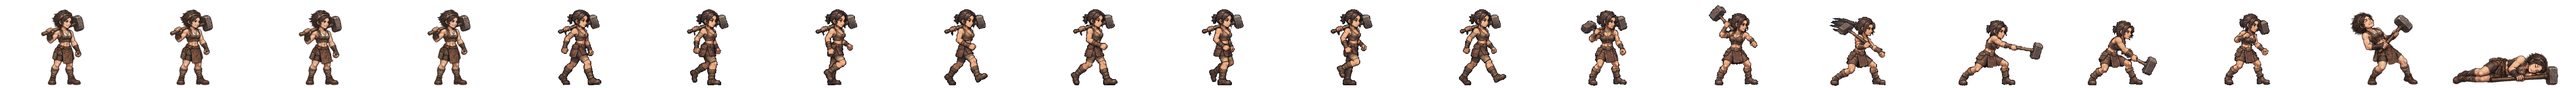
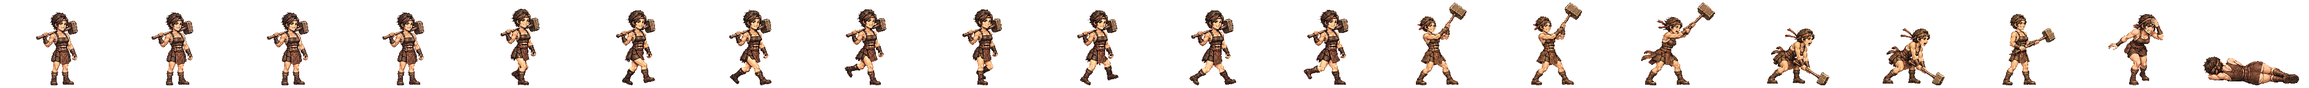
해비·아룸 새 전투 띠를 게임에 (형 11-24: 완료된 건 게임에 반영해 줘)
서기·걷기 여덟 칸·공격 여덟 칸(넓은 동작 칸 240×224 · 뿌리 92)·쓰러짐·개성 동작. 넓은 칸(xGeom)을 처음 실제로 쓴다.
- SPRITE_PX 다시 잼(해비 208×160 · 아룸 208×160) · 계획(HAEBI_IDLE.plans) · 옛 2배 그림 연결 끊음 · 겨루기도 새 띠
- 게임의 sprite() 로 칸마다 찍어 확인: 머리 위로 든 무기 안 잘림 · 발 줄 같음 · 몸 크기 같음 · 뒤집어도 같은 자리
- 아룸: 걷기·서기 얼굴과 먼 다리 살빛은 부분 보정을 원본에 얹음

Claude-Session: https://claude.ai/code/session_01TRiuN7s6aDfSnaHxrkctmU

diff --git a/src/realm/data/spritePx.ts b/src/realm/data/spritePx.ts
@@ -1,3 +1,3 @@
 /** public/realm/anim-px/manifest.json 의 사본 — tools/sprite-normalize.mjs 가 만든다 (손으로 고치지 말 것). 칸 [가로, 세로] · feet = 발 줄(칸 위에서 y) · bodyPx = 서 있는 몸 키 */
 import { expandManifest } from './sprite-manifest.ts'
-export const SPRITE_PX: Readonly<Record<string, { readonly cell: readonly [number, number]; readonly feet: number; readonly bodyPx: number; readonly kind: 'general' | 'soldier' | 'folk' | 'crowd'; readonly cells: number }>> = expandManifest<{ readonly cell: readonly [number, number]; readonly feet: number; readonly bodyPx: number; readonly kind: 'general' | 'soldier' | 'folk' | 'crowd'; readonly cells: number }>([{"cell":[166,128],"feet":126,"bodyPx":124,"kind":"soldier","cells":20},{"cell":[116,128],"feet":126,"bodyPx":117,"kind":"soldier","cells":20},{"cell":[127,128],"feet":126,"bodyPx":116,"kind":"soldier","cells":20},{"cell":[269,128],"feet":126,"bodyPx":126,"kind":"soldier","cells":20},{"cell":[503,128],"feet":126,"bodyPx":127,"kind":"soldier","cells":20},{"cell":[614,128],"feet":126,"bodyPx":126,"kind":"soldier","cells":20},{"cell":[200,160],"feet":156,"bodyPx":138,"kind":"general","cells":20},{"cell":[208,160],"feet":155,"bodyPx":138,"kind":"general","cells":20},{"cell":[232,160],"feet":156,"bodyPx":138,"kind":"general","cells":20},{"cell":[232,160],"feet":155,"bodyPx":138,"kind":"general","cells":20},{"cell":[304,160],"feet":155,"bodyPx":135,"kind":"general","cells":20},{"cell":[224,160],"feet":156,"bodyPx":139,"kind":"general","cells":20},{"cell":[184,160],"feet":156,"bodyPx":138,"kind":"general","cells":20},{"cell":[208,160],"feet":154,"bodyPx":136,"kind":"general","cells":20},{"cell":[240,160],"feet":156,"bodyPx":138,"kind":"general","cells":20},{"cell":[208,160],"feet":156,"bodyPx":138,"kind":"general","cells":20},{"cell":[168,160],"feet":156,"bodyPx":138,"kind":"general","cells":20},{"cell":[192,160],"feet":156,"bodyPx":138,"kind":"general","cells":20},{"cell":[168,160],"feet":156,"bodyPx":124,"kind":"general","cells":20},{"cell":[216,160],"feet":156,"bodyPx":130,"kind":"general","cells":20},{"cell":[200,160],"feet":156,"bodyPx":116,"kind":"general","cells":20},{"cell":[200,160],"feet":156,"bodyPx":135,"kind":"general","cells":20},{"cell":[280,160],"feet":156,"bodyPx":138,"kind":"general","cells":20},{"cell":[232,160],"feet":156,"bodyPx":134,"kind":"general","cells":20},{"cell":[144,160],"feet":156,"bodyPx":70,"kind":"general","cells":20},{"cell":[208,160],"feet":156,"bodyPx":70,"kind":"general","cells":20},{"cell":[192,160],"feet":156,"bodyPx":70,"kind":"general","cells":20},{"cell":[240,160],"feet":155,"bodyPx":138,"kind":"general","cells":20},{"cell":[160,160],"feet":156,"bodyPx":135,"kind":"general","cells":20},{"cell":[192,160],"feet":156,"bodyPx":128,"kind":"general","cells":20},{"cell":[224,160],"feet":155,"bodyPx":138,"kind":"general","cells":20},{"cell":[200,160],"feet":156,"bodyPx":139,"kind":"general","cells":20},{"cell":[232,160],"feet":156,"bodyPx":139,"kind":"general","cells":20},{"cell":[264,160],"feet":155,"bodyPx":138,"kind":"general","cells":20},{"cell":[216,160],"feet":156,"bodyPx":138,"kind":"general","cells":20},{"cell":[208,160],"feet":156,"bodyPx":134,"kind":"general","cells":20},{"cell":[176,160],"feet":156,"bodyPx":130,"kind":"general","cells":20},{"cell":[248,160],"feet":156,"bodyPx":138,"kind":"general","cells":20},{"cell":[248,160],"feet":155,"bodyPx":138,"kind":"general","cells":20},{"cell":[192,160],"feet":155,"bodyPx":138,"kind":"general","cells":20},{"cell":[192,160],"feet":156,"bodyPx":124,"kind":"general","cells":20},{"cell":[208,160],"feet":154,"bodyPx":131,"kind":"general","cells":20},{"cell":[256,160],"feet":156,"bodyPx":138,"kind":"general","cells":20},{"cell":[232,160],"feet":156,"bodyPx":73,"kind":"general","cells":20},{"cell":[256,160],"feet":155,"bodyPx":138,"kind":"general","cells":20},{"cell":[224,160],"feet":156,"bodyPx":138,"kind":"general","cells":20},{"cell":[264,160],"feet":156,"bodyPx":138,"kind":"general","cells":20},{"cell":[224,160],"feet":156,"bodyPx":128,"kind":"general","cells":20},{"cell":[176,160],"feet":156,"bodyPx":129,"kind":"general","cells":20},{"cell":[208,160],"feet":156,"bodyPx":132,"kind":"general","cells":20},{"cell":[216,160],"feet":155,"bodyPx":138,"kind":"general","cells":20},{"cell":[184,160],"feet":156,"bodyPx":122,"kind":"general","cells":20},{"cell":[176,160],"feet":156,"bodyPx":138,"kind":"general","cells":20},{"cell":[280,160],"feet":155,"bodyPx":133,"kind":"general","cells":20},{"cell":[176,160],"feet":156,"bodyPx":70,"kind":"general","cells":20},{"cell":[186,128],"feet":126,"bodyPx":127,"kind":"soldier","cells":20},{"cell":[298,128],"feet":126,"bodyPx":126,"kind":"soldier","cells":20},{"cell":[82,128],"feet":126,"bodyPx":114,"kind":"folk","cells":8},{"cell":[134,128],"feet":126,"bodyPx":119,"kind":"soldier","cells":20},{"cell":[380,128],"feet":126,"bodyPx":124,"kind":"soldier","cells":20},{"cell":[114,128],"feet":126,"bodyPx":115,"kind":"soldier","cells":20},{"cell":[122,128],"feet":126,"bodyPx":114,"kind":"soldier","cells":20},{"cell":[254,128],"feet":126,"bodyPx":128,"kind":"soldier","cells":20},{"cell":[438,128],"feet":126,"bodyPx":126,"kind":"soldier","cells":20},{"cell":[88,128],"feet":126,"bodyPx":113,"kind":"folk","cells":8},{"cell":[100,128],"feet":126,"bodyPx":115,"kind":"folk","cells":8},{"cell":[108,128],"feet":126,"bodyPx":115,"kind":"folk","cells":8},{"cell":[63,128],"feet":126,"bodyPx":113,"kind":"folk","cells":8},{"cell":[69,96],"feet":96,"bodyPx":96,"kind":"crowd","cells":1},{"cell":[54,96],"feet":96,"bodyPx":96,"kind":"crowd","cells":1},{"cell":[47,96],"feet":96,"bodyPx":96,"kind":"crowd","cells":1},{"cell":[49,96],"feet":96,"bodyPx":96,"kind":"crowd","cells":1},{"cell":[57,96],"feet":96,"bodyPx":96,"kind":"crowd","cells":1},{"cell":[55,96],"feet":96,"bodyPx":96,"kind":"crowd","cells":1},{"cell":[45,96],"feet":96,"bodyPx":96,"kind":"crowd","cells":1},{"cell":[53,96],"feet":96,"bodyPx":96,"kind":"crowd","cells":1},{"cell":[64,96],"feet":96,"bodyPx":96,"kind":"crowd","cells":1},{"cell":[184,160],"feet":156,"bodyPx":124,"kind":"general","cells":20},{"cell":[184,160],"feet":156,"bodyPx":134,"kind":"general","cells":20},{"cell":[224,160],"feet":156,"bodyPx":133,"kind":"general","cells":20},{"cell":[192,160],"feet":156,"bodyPx":135,"kind":"general","cells":20},{"cell":[184,160],"feet":156,"bodyPx":137,"kind":"general","cells":20},{"cell":[216,160],"feet":156,"bodyPx":134,"kind":"general","cells":20},{"cell":[216,160],"feet":156,"bodyPx":132,"kind":"general","cells":20},{"cell":[288,160],"feet":156,"bodyPx":138,"kind":"general","cells":20},{"cell":[208,160],"feet":154,"bodyPx":139,"kind":"general","cells":20},{"cell":[192,160],"feet":156,"bodyPx":118,"kind":"general","cells":20},{"cell":[192,160],"feet":156,"bodyPx":134,"kind":"general","cells":20},{"cell":[192,160],"feet":157,"bodyPx":139,"kind":"general","cells":20},{"cell":[184,160],"feet":156,"bodyPx":128,"kind":"general","cells":20},{"cell":[240,160],"feet":156,"bodyPx":128,"kind":"general","cells":20},{"cell":[184,160],"feet":156,"bodyPx":132,"kind":"general","cells":20},{"cell":[208,160],"feet":156,"bodyPx":123,"kind":"general","cells":20},{"cell":[176,160],"feet":156,"bodyPx":116,"kind":"general","cells":20},{"cell":[272,160],"feet":156,"bodyPx":138,"kind":"general","cells":20},{"cell":[176,160],"feet":156,"bodyPx":122,"kind":"general","cells":20},{"cell":[232,160],"feet":156,"bodyPx":127,"kind":"general","cells":20},{"cell":[176,160],"feet":156,"bodyPx":137,"kind":"general","cells":20},{"cell":[184,160],"feet":156,"bodyPx":133,"kind":"general","cells":20}],[["axe",0],["bandit-chief",1],["bandit-club",2],["boat",3],["bow",4],["crossbow",5],["gen-adogan",6],["gen-alpyeong",7],["gen-ara",8],["gen-areum",9],["gen-aryeong",10],["gen-bakdal",6],["gen-baram",11],["gen-bdanbi",12],["gen-beom",13],["gen-beombal",12],["gen-beomi",14],["gen-bira",8],["gen-biryu",15],["gen-budeul",16],["gen-byeol",17],["gen-daemusin",18],["gen-daeso",19],["gen-dallae2",12],["gen-dalli",12],["gen-damul",20],["gen-danbi",15],["gen-dangung",17],["gen-darae",21],["gen-dokmudeom",7],["gen-duman",22],["gen-eomni",9],["gen-eureum",23],["gen-g-bow",24],["gen-g-spear",25],["gen-g-sword",26],["gen-gaennae",6],["gen-gamsil",27],["gen-gaon",28],["gen-geota",15],["gen-geumbawi",12],["gen-geumha",29],["gen-goeun",15],["gen-gom",30],["gen-gomok",15],["gen-gureum",27],["gen-guryema",17],["gen-gwaeyu",8],["gen-haebi",31],["gen-haedal",6],["gen-haesol",32],["gen-halla",7],["gen-heo",33],["gen-hneoul",12],["gen-hogong",34],["gen-hojin",15],["gen-horselord",35],["gen-hwalmi",36],["gen-hyeokgeose",17],["gen-hyeopbo",6],["gen-irang",15],["gen-jibaekho",37],["gen-jinha",38],["gen-jita",39],["gen-jumong",40],["gen-keundol",7],["gen-maehwa",41],["gen-maenun",17],["gen-malgalgi",42],["gen-mari",14],["gen-maro",37],["gen-maryeo",15],["gen-mdallae",32],["gen-mir",6],["gen-mount",43],["gen-mulbeom",44],["gen-mulsae",34],["gen-musoe",34],["gen-noeul",45],["gen-nuri",46],["gen-ocheongan",45],["gen-odi",38],["gen-odogan",6],["gen-ogan",17],["gen-oi",47],["gen-olddaeso",23],["gen-onjo",48],["gen-pidogan",15],["gen-sagong",30],["gen-sdallae",6],["gen-sincheongan",34],["gen-singwigan",34],["gen-sinneoul",9],["gen-sobeol",9],["gen-soebi",6],["gen-soebo",49],["gen-soenun",37],["gen-sogeumbi",50],["gen-songbi",45],["gen-songyang",51],["gen-sori",52],["gen-soseono",53],["gen-suro",17],["gen-tahae",6],["gen-tneoul",45],["gen-w-bow",24],["gen-w-spear",54],["gen-waechief",15],["gen-wan",34],["gen-yeodogan",15],["gen-yucheongan",15],["gen-yusugan",37],["horse",55],["marine",56],["migrant",57],["militia",58],["pike",59],["pirate-captain",60],["pirate-sword",61],["shield",62],["spear",63],["villager-builder",64],["villager-farmer",65],["villager-porter",66],["villager-woman",67],["crowd-b1",68],["crowd-b2",69],["crowd-b3",70],["crowd-b4",71],["crowd-b5",72],["crowd-b6",73],["crowd-f1",68],["crowd-f2",73],["crowd-f3",74],["crowd-f4",75],["crowd-f5",68],["crowd-f6",76],["gen-dalbit",15],["gen-base-g-07-drunk-warrior",17],["gen-base-g-40-anya-adan",15],["gen-base-w-13-young-archer",15],["gen-base-g-03-sea-trader",14],["gen-base-w-10-pirate-captain",46],["gen-base-w-64-miri-dallae",14],["gen-base-g-41-goja-bau",14],["gen-base-g-42-dokro-garam",46],["gen-base-g-09-farmer-conscript",34],["gen-base-w-02-goguryeo-lady",34],["gen-base-w-17-mahan-pearl-diver",45],["gen-base-g-17-saro-isageum",49],["gen-base-g-18-daegaya-king",77],["gen-base-g-35-dabeol-dalgu",15],["gen-base-g-19-sabeol-veteran",34],["gen-base-w-23-usisan-whale-queen",34],["gen-base-g-36-gammun-gamdol",45],["gen-base-g-20-samul-sea-lord",42],["gen-base-g-37-eumjeup-jeup",12],["gen-base-g-38-chopal-palmae",17],["gen-base-w-75-daegaya-soemoe",17],["gen-base-g-45-dabeol-deulgae",12],["gen-base-g-04-jinhan-giant",15],["gen-base-g-08-veteran",15],["gen-base-w-18-jinhan-salt-widow",15],["gen-base-w-12-court-dancer",78],["gen-base-w-83-gyeonji-beodeul",79],["gen-base-w-05-baekje-queen",80],["gen-base-w-21-baekje-court-dancer",12],["gen-base-g-01-master-smith",81],["gen-base-g-93-jomun-solgae",36],["gen-base-g-57-bihwa-neup",14],["gen-base-w-72-eumjeup-beol",15],["gen-base-w-102-garak-dana",34],["gen-base-g-68-baekje-onnuri",15],["gen-base-w-27-mokji-jinha",6],["gen-base-g-22-ungcheon-gomnae",6],["gen-base-g-23-sangdang-soedal",15],["gen-base-g-24-wansan-onsan",6],["gen-base-g-25-balla-keunmoe",34],["gen-base-g-61-heomcheuk-bawi",34],["gen-base-g-88-wander-soeul",45],["gen-base-w-14-feast-spy",6],["gen-base-g-12-silla-youth",82],["gen-base-w-08-mahan-warrior",14],["gen-base-g-62-beonye-hanul",14],["gen-base-g-63-heomcheuk-beogeum",15],["gen-base-g-84-wander-seoneul",15],["gen-base-w-50-siljik-mulga",34],["gen-base-g-46-uga-nureongso",34],["gen-base-w-80-usan-gangchi",14],["gen-base-g-47-guga-sanyanggae",34],["gen-base-w-76-gampyeong-baetsagong",37],["gen-base-g-05-mahan-chieftain",83],["gen-base-g-58-usan-uhae",15],["gen-base-g-27-maek-maekdol",15],["gen-base-w-53-hwanna-gabi",16],["gen-base-w-29-golpo-janmul",37],["gen-base-g-53-baekje-haeru",6],["gen-base-w-71-yeonna-neoul",14],["gen-base-w-79-yangmaek-solmae",34],["gen-base-w-34-chopal-deulme",46],["gen-base-g-44-maga-malgup",84],["gen-base-w-31-dabeol-dalbit",85],["gen-base-g-51-biryuna-mulgyeol",45],["gen-base-g-48-gwanna-musoe",15],["gen-base-g-32-uga-sodu",8],["gen-base-g-49-goguryeo-sona",86],["gen-base-g-30-gwanna-soemoe",45],["gen-base-g-52-tamna-oreum",12],["gen-base-g-29-yeonna-myeongsol",40],["gen-base-w-56-dongokjeo-sogeum",87],["gen-base-g-54-mokji-mahan",8],["gen-base-g-33-jeoga-metdol",17],["gen-base-w-36-baekje-maena",17],["gen-base-w-38-sangdang-bulmae",6],["gen-base-w-39-gosaburi-galmae",88],["gen-base-w-40-mujin-munui",49],["gen-base-w-41-hwanna-beodeul",89],["gen-base-w-43-uga-nuri",42],["gen-base-w-45-tamna-oreumbi",12],["gen-base-g-60-golbeol-golgae",12],["gen-base-g-61-apdok-ap",34],["gen-base-g-62-gammun-gamnamu",6],["gen-base-g-63-chopal-yeoul",37],["gen-base-g-64-michuhol-sogeumkkun",14],["gen-base-g-65-sangdang-soemangchi",45],["gen-base-g-66-geonma-malbalgup",90],["gen-base-g-67-gosaburi-buri",91],["gen-base-g-68-mujin-bitgoeul",12],["gen-base-g-69-goryong-yong",45],["gen-base-g-70-siljik-pado",14],["gen-base-w-81-byeokjin-byeolbit",8],["gen-base-w-46-geonma-maru",37],["gen-base-w-48-mujin-mudeung",14],["gen-base-g-26-gampyeong-gaetbeol",8],["gen-base-g-60-eupcha-hangyeol",92],["gen-base-g-15-shaman-man",34],["gen-base-g-85-wander-ure",37],["gen-base-g-43-hwanna-amnok",15],["gen-base-g-50-bullae-gwaha",80],["gen-base-g-55-saro-bakdal",15],["gen-base-g-56-haseulla-gwahama",6],["gen-base-w-06-buyeo-huntress",14],["gen-base-w-22-dongye-tiger-huntress",14],["gen-base-w-25-bihwa-priestess",34],["gen-base-w-24-apdok-queen",12],["gen-base-w-61-iseo-sinae",15],["gen-base-w-26-iseo-tomboy-general",46],["gen-base-g-59-yangmaek-maekson",93],["gen-aw1-haebi",45],["gen-aw1-soseono",94],["gen-aw1-gamsil",12],["gen-aw1-mir",52],["gen-aw1-dangung",6],["gen-aw1-ara",45],["gen-aw1-jumong",95],["gen-aw1-onjo",96],["gen-aw1-base-w-83-gyeonji-beodeul",17],["gen-aw1-heo",46],["gen-aw1-base-g-38-chopal-palmae",6],["gen-aw1-base-w-25-bihwa-priestess",78],["gen-aw1-sori",16],["gen-aw1-gomok",6],["gen-aw1-irang",17],["gen-aw1-budeul",16],["gen-aw1-gom",14],["gen-aw1-sdallae",6],["gen-aw1-base-w-13-young-archer",6],["gen-aw1-base-w-36-baekje-maena",97],["gen-aw1-base-g-09-farmer-conscript",46],["gen-aw1-base-w-02-goguryeo-lady",98],["gen-aw1-haedal",12],["gen-aw1-hogong",6],["gen-aw1-maehwa",52],["gen-aw1-base-w-06-buyeo-huntress",8],["gen-aw1-base-w-08-mahan-warrior",45],["gen-aw1-base-w-29-golpo-janmul",45],["gen-aw1-base-w-31-dabeol-dalbit",17],["gen-aw1-base-w-38-sangdang-bulmae",16],["gen-aw1-bira",34],["gen-aw1-base-w-53-hwanna-gabi",16],["gen-aw1-base-w-56-dongokjeo-sogeum",52],["gen-aw1-base-w-72-eumjeup-beol",17],["gen-aw1-bdanbi",16],["gen-aw1-beom",12],["gen-aw1-beombal",12],["gen-aw1-byeol",17],["gen-aw1-dalli",52],["gen-aw1-malgalgi",37],["gen-aw1-sincheongan",34]])
+export const SPRITE_PX: Readonly<Record<string, { readonly cell: readonly [number, number]; readonly feet: number; readonly bodyPx: number; readonly kind: 'general' | 'soldier' | 'folk' | 'crowd'; readonly cells: number }>> = expandManifest<{ readonly cell: readonly [number, number]; readonly feet: number; readonly bodyPx: number; readonly kind: 'general' | 'soldier' | 'folk' | 'crowd'; readonly cells: number }>([{"cell":[166,128],"feet":126,"bodyPx":124,"kind":"soldier","cells":20},{"cell":[116,128],"feet":126,"bodyPx":117,"kind":"soldier","cells":20},{"cell":[127,128],"feet":126,"bodyPx":116,"kind":"soldier","cells":20},{"cell":[269,128],"feet":126,"bodyPx":126,"kind":"soldier","cells":20},{"cell":[503,128],"feet":126,"bodyPx":127,"kind":"soldier","cells":20},{"cell":[614,128],"feet":126,"bodyPx":126,"kind":"soldier","cells":20},{"cell":[200,160],"feet":156,"bodyPx":138,"kind":"general","cells":20},{"cell":[208,160],"feet":155,"bodyPx":138,"kind":"general","cells":20},{"cell":[232,160],"feet":156,"bodyPx":138,"kind":"general","cells":20},{"cell":[208,160],"feet":154,"bodyPx":133,"kind":"general","cells":20},{"cell":[304,160],"feet":155,"bodyPx":135,"kind":"general","cells":20},{"cell":[224,160],"feet":156,"bodyPx":139,"kind":"general","cells":20},{"cell":[184,160],"feet":156,"bodyPx":138,"kind":"general","cells":20},{"cell":[208,160],"feet":154,"bodyPx":136,"kind":"general","cells":20},{"cell":[240,160],"feet":156,"bodyPx":138,"kind":"general","cells":20},{"cell":[208,160],"feet":156,"bodyPx":138,"kind":"general","cells":20},{"cell":[168,160],"feet":156,"bodyPx":138,"kind":"general","cells":20},{"cell":[192,160],"feet":156,"bodyPx":138,"kind":"general","cells":20},{"cell":[168,160],"feet":156,"bodyPx":124,"kind":"general","cells":20},{"cell":[216,160],"feet":156,"bodyPx":130,"kind":"general","cells":20},{"cell":[200,160],"feet":156,"bodyPx":116,"kind":"general","cells":20},{"cell":[200,160],"feet":156,"bodyPx":135,"kind":"general","cells":20},{"cell":[280,160],"feet":156,"bodyPx":138,"kind":"general","cells":20},{"cell":[232,160],"feet":155,"bodyPx":138,"kind":"general","cells":20},{"cell":[232,160],"feet":156,"bodyPx":134,"kind":"general","cells":20},{"cell":[144,160],"feet":156,"bodyPx":70,"kind":"general","cells":20},{"cell":[208,160],"feet":156,"bodyPx":70,"kind":"general","cells":20},{"cell":[192,160],"feet":156,"bodyPx":70,"kind":"general","cells":20},{"cell":[240,160],"feet":155,"bodyPx":138,"kind":"general","cells":20},{"cell":[160,160],"feet":156,"bodyPx":135,"kind":"general","cells":20},{"cell":[192,160],"feet":156,"bodyPx":128,"kind":"general","cells":20},{"cell":[224,160],"feet":155,"bodyPx":138,"kind":"general","cells":20},{"cell":[208,160],"feet":154,"bodyPx":138,"kind":"general","cells":20},{"cell":[232,160],"feet":156,"bodyPx":139,"kind":"general","cells":20},{"cell":[264,160],"feet":155,"bodyPx":138,"kind":"general","cells":20},{"cell":[216,160],"feet":156,"bodyPx":138,"kind":"general","cells":20},{"cell":[208,160],"feet":156,"bodyPx":134,"kind":"general","cells":20},{"cell":[176,160],"feet":156,"bodyPx":130,"kind":"general","cells":20},{"cell":[248,160],"feet":156,"bodyPx":138,"kind":"general","cells":20},{"cell":[248,160],"feet":155,"bodyPx":138,"kind":"general","cells":20},{"cell":[192,160],"feet":155,"bodyPx":138,"kind":"general","cells":20},{"cell":[192,160],"feet":156,"bodyPx":124,"kind":"general","cells":20},{"cell":[208,160],"feet":154,"bodyPx":131,"kind":"general","cells":20},{"cell":[256,160],"feet":156,"bodyPx":138,"kind":"general","cells":20},{"cell":[232,160],"feet":156,"bodyPx":73,"kind":"general","cells":20},{"cell":[256,160],"feet":155,"bodyPx":138,"kind":"general","cells":20},{"cell":[224,160],"feet":156,"bodyPx":138,"kind":"general","cells":20},{"cell":[264,160],"feet":156,"bodyPx":138,"kind":"general","cells":20},{"cell":[224,160],"feet":156,"bodyPx":128,"kind":"general","cells":20},{"cell":[176,160],"feet":156,"bodyPx":129,"kind":"general","cells":20},{"cell":[208,160],"feet":156,"bodyPx":132,"kind":"general","cells":20},{"cell":[216,160],"feet":155,"bodyPx":138,"kind":"general","cells":20},{"cell":[184,160],"feet":156,"bodyPx":122,"kind":"general","cells":20},{"cell":[176,160],"feet":156,"bodyPx":138,"kind":"general","cells":20},{"cell":[280,160],"feet":155,"bodyPx":133,"kind":"general","cells":20},{"cell":[176,160],"feet":156,"bodyPx":70,"kind":"general","cells":20},{"cell":[186,128],"feet":126,"bodyPx":127,"kind":"soldier","cells":20},{"cell":[298,128],"feet":126,"bodyPx":126,"kind":"soldier","cells":20},{"cell":[82,128],"feet":126,"bodyPx":114,"kind":"folk","cells":8},{"cell":[134,128],"feet":126,"bodyPx":119,"kind":"soldier","cells":20},{"cell":[380,128],"feet":126,"bodyPx":124,"kind":"soldier","cells":20},{"cell":[114,128],"feet":126,"bodyPx":115,"kind":"soldier","cells":20},{"cell":[122,128],"feet":126,"bodyPx":114,"kind":"soldier","cells":20},{"cell":[254,128],"feet":126,"bodyPx":128,"kind":"soldier","cells":20},{"cell":[438,128],"feet":126,"bodyPx":126,"kind":"soldier","cells":20},{"cell":[88,128],"feet":126,"bodyPx":113,"kind":"folk","cells":8},{"cell":[100,128],"feet":126,"bodyPx":115,"kind":"folk","cells":8},{"cell":[108,128],"feet":126,"bodyPx":115,"kind":"folk","cells":8},{"cell":[63,128],"feet":126,"bodyPx":113,"kind":"folk","cells":8},{"cell":[69,96],"feet":96,"bodyPx":96,"kind":"crowd","cells":1},{"cell":[54,96],"feet":96,"bodyPx":96,"kind":"crowd","cells":1},{"cell":[47,96],"feet":96,"bodyPx":96,"kind":"crowd","cells":1},{"cell":[49,96],"feet":96,"bodyPx":96,"kind":"crowd","cells":1},{"cell":[57,96],"feet":96,"bodyPx":96,"kind":"crowd","cells":1},{"cell":[55,96],"feet":96,"bodyPx":96,"kind":"crowd","cells":1},{"cell":[45,96],"feet":96,"bodyPx":96,"kind":"crowd","cells":1},{"cell":[53,96],"feet":96,"bodyPx":96,"kind":"crowd","cells":1},{"cell":[64,96],"feet":96,"bodyPx":96,"kind":"crowd","cells":1},{"cell":[184,160],"feet":156,"bodyPx":124,"kind":"general","cells":20},{"cell":[184,160],"feet":156,"bodyPx":134,"kind":"general","cells":20},{"cell":[224,160],"feet":156,"bodyPx":133,"kind":"general","cells":20},{"cell":[192,160],"feet":156,"bodyPx":135,"kind":"general","cells":20},{"cell":[184,160],"feet":156,"bodyPx":137,"kind":"general","cells":20},{"cell":[216,160],"feet":156,"bodyPx":134,"kind":"general","cells":20},{"cell":[216,160],"feet":156,"bodyPx":132,"kind":"general","cells":20},{"cell":[288,160],"feet":156,"bodyPx":138,"kind":"general","cells":20},{"cell":[208,160],"feet":154,"bodyPx":139,"kind":"general","cells":20},{"cell":[192,160],"feet":156,"bodyPx":118,"kind":"general","cells":20},{"cell":[192,160],"feet":156,"bodyPx":134,"kind":"general","cells":20},{"cell":[192,160],"feet":157,"bodyPx":139,"kind":"general","cells":20},{"cell":[184,160],"feet":156,"bodyPx":128,"kind":"general","cells":20},{"cell":[240,160],"feet":156,"bodyPx":128,"kind":"general","cells":20},{"cell":[184,160],"feet":156,"bodyPx":132,"kind":"general","cells":20},{"cell":[208,160],"feet":156,"bodyPx":123,"kind":"general","cells":20},{"cell":[176,160],"feet":156,"bodyPx":116,"kind":"general","cells":20},{"cell":[272,160],"feet":156,"bodyPx":138,"kind":"general","cells":20},{"cell":[176,160],"feet":156,"bodyPx":122,"kind":"general","cells":20},{"cell":[232,160],"feet":156,"bodyPx":127,"kind":"general","cells":20},{"cell":[176,160],"feet":156,"bodyPx":137,"kind":"general","cells":20},{"cell":[184,160],"feet":156,"bodyPx":133,"kind":"general","cells":20}],[["axe",0],["bandit-chief",1],["bandit-club",2],["boat",3],["bow",4],["crossbow",5],["gen-adogan",6],["gen-alpyeong",7],["gen-ara",8],["gen-areum",9],["gen-aryeong",10],["gen-bakdal",6],["gen-baram",11],["gen-bdanbi",12],["gen-beom",13],["gen-beombal",12],["gen-beomi",14],["gen-bira",8],["gen-biryu",15],["gen-budeul",16],["gen-byeol",17],["gen-daemusin",18],["gen-daeso",19],["gen-dallae2",12],["gen-dalli",12],["gen-damul",20],["gen-danbi",15],["gen-dangung",17],["gen-darae",21],["gen-dokmudeom",7],["gen-duman",22],["gen-eomni",23],["gen-eureum",24],["gen-g-bow",25],["gen-g-spear",26],["gen-g-sword",27],["gen-gaennae",6],["gen-gamsil",28],["gen-gaon",29],["gen-geota",15],["gen-geumbawi",12],["gen-geumha",30],["gen-goeun",15],["gen-gom",31],["gen-gomok",15],["gen-gureum",28],["gen-guryema",17],["gen-gwaeyu",8],["gen-haebi",32],["gen-haedal",6],["gen-haesol",33],["gen-halla",7],["gen-heo",34],["gen-hneoul",12],["gen-hogong",35],["gen-hojin",15],["gen-horselord",36],["gen-hwalmi",37],["gen-hyeokgeose",17],["gen-hyeopbo",6],["gen-irang",15],["gen-jibaekho",38],["gen-jinha",39],["gen-jita",40],["gen-jumong",41],["gen-keundol",7],["gen-maehwa",42],["gen-maenun",17],["gen-malgalgi",43],["gen-mari",14],["gen-maro",38],["gen-maryeo",15],["gen-mdallae",33],["gen-mir",6],["gen-mount",44],["gen-mulbeom",45],["gen-mulsae",35],["gen-musoe",35],["gen-noeul",46],["gen-nuri",47],["gen-ocheongan",46],["gen-odi",39],["gen-odogan",6],["gen-ogan",17],["gen-oi",48],["gen-olddaeso",24],["gen-onjo",49],["gen-pidogan",15],["gen-sagong",31],["gen-sdallae",6],["gen-sincheongan",35],["gen-singwigan",35],["gen-sinneoul",23],["gen-sobeol",23],["gen-soebi",6],["gen-soebo",50],["gen-soenun",38],["gen-sogeumbi",51],["gen-songbi",46],["gen-songyang",52],["gen-sori",53],["gen-soseono",54],["gen-suro",17],["gen-tahae",6],["gen-tneoul",46],["gen-w-bow",25],["gen-w-spear",55],["gen-waechief",15],["gen-wan",35],["gen-yeodogan",15],["gen-yucheongan",15],["gen-yusugan",38],["horse",56],["marine",57],["migrant",58],["militia",59],["pike",60],["pirate-captain",61],["pirate-sword",62],["shield",63],["spear",64],["villager-builder",65],["villager-farmer",66],["villager-porter",67],["villager-woman",68],["crowd-b1",69],["crowd-b2",70],["crowd-b3",71],["crowd-b4",72],["crowd-b5",73],["crowd-b6",74],["crowd-f1",69],["crowd-f2",74],["crowd-f3",75],["crowd-f4",76],["crowd-f5",69],["crowd-f6",77],["gen-dalbit",15],["gen-base-g-07-drunk-warrior",17],["gen-base-g-40-anya-adan",15],["gen-base-w-13-young-archer",15],["gen-base-g-03-sea-trader",14],["gen-base-w-10-pirate-captain",47],["gen-base-w-64-miri-dallae",14],["gen-base-g-41-goja-bau",14],["gen-base-g-42-dokro-garam",47],["gen-base-g-09-farmer-conscript",35],["gen-base-w-02-goguryeo-lady",35],["gen-base-w-17-mahan-pearl-diver",46],["gen-base-g-17-saro-isageum",50],["gen-base-g-18-daegaya-king",78],["gen-base-g-35-dabeol-dalgu",15],["gen-base-g-19-sabeol-veteran",35],["gen-base-w-23-usisan-whale-queen",35],["gen-base-g-36-gammun-gamdol",46],["gen-base-g-20-samul-sea-lord",43],["gen-base-g-37-eumjeup-jeup",12],["gen-base-g-38-chopal-palmae",17],["gen-base-w-75-daegaya-soemoe",17],["gen-base-g-45-dabeol-deulgae",12],["gen-base-g-04-jinhan-giant",15],["gen-base-g-08-veteran",15],["gen-base-w-18-jinhan-salt-widow",15],["gen-base-w-12-court-dancer",79],["gen-base-w-83-gyeonji-beodeul",80],["gen-base-w-05-baekje-queen",81],["gen-base-w-21-baekje-court-dancer",12],["gen-base-g-01-master-smith",82],["gen-base-g-93-jomun-solgae",37],["gen-base-g-57-bihwa-neup",14],["gen-base-w-72-eumjeup-beol",15],["gen-base-w-102-garak-dana",35],["gen-base-g-68-baekje-onnuri",15],["gen-base-w-27-mokji-jinha",6],["gen-base-g-22-ungcheon-gomnae",6],["gen-base-g-23-sangdang-soedal",15],["gen-base-g-24-wansan-onsan",6],["gen-base-g-25-balla-keunmoe",35],["gen-base-g-61-heomcheuk-bawi",35],["gen-base-g-88-wander-soeul",46],["gen-base-w-14-feast-spy",6],["gen-base-g-12-silla-youth",83],["gen-base-w-08-mahan-warrior",14],["gen-base-g-62-beonye-hanul",14],["gen-base-g-63-heomcheuk-beogeum",15],["gen-base-g-84-wander-seoneul",15],["gen-base-w-50-siljik-mulga",35],["gen-base-g-46-uga-nureongso",35],["gen-base-w-80-usan-gangchi",14],["gen-base-g-47-guga-sanyanggae",35],["gen-base-w-76-gampyeong-baetsagong",38],["gen-base-g-05-mahan-chieftain",84],["gen-base-g-58-usan-uhae",15],["gen-base-g-27-maek-maekdol",15],["gen-base-w-53-hwanna-gabi",16],["gen-base-w-29-golpo-janmul",38],["gen-base-g-53-baekje-haeru",6],["gen-base-w-71-yeonna-neoul",14],["gen-base-w-79-yangmaek-solmae",35],["gen-base-w-34-chopal-deulme",47],["gen-base-g-44-maga-malgup",85],["gen-base-w-31-dabeol-dalbit",86],["gen-base-g-51-biryuna-mulgyeol",46],["gen-base-g-48-gwanna-musoe",15],["gen-base-g-32-uga-sodu",8],["gen-base-g-49-goguryeo-sona",87],["gen-base-g-30-gwanna-soemoe",46],["gen-base-g-52-tamna-oreum",12],["gen-base-g-29-yeonna-myeongsol",41],["gen-base-w-56-dongokjeo-sogeum",88],["gen-base-g-54-mokji-mahan",8],["gen-base-g-33-jeoga-metdol",17],["gen-base-w-36-baekje-maena",17],["gen-base-w-38-sangdang-bulmae",6],["gen-base-w-39-gosaburi-galmae",89],["gen-base-w-40-mujin-munui",50],["gen-base-w-41-hwanna-beodeul",90],["gen-base-w-43-uga-nuri",43],["gen-base-w-45-tamna-oreumbi",12],["gen-base-g-60-golbeol-golgae",12],["gen-base-g-61-apdok-ap",35],["gen-base-g-62-gammun-gamnamu",6],["gen-base-g-63-chopal-yeoul",38],["gen-base-g-64-michuhol-sogeumkkun",14],["gen-base-g-65-sangdang-soemangchi",46],["gen-base-g-66-geonma-malbalgup",91],["gen-base-g-67-gosaburi-buri",92],["gen-base-g-68-mujin-bitgoeul",12],["gen-base-g-69-goryong-yong",46],["gen-base-g-70-siljik-pado",14],["gen-base-w-81-byeokjin-byeolbit",8],["gen-base-w-46-geonma-maru",38],["gen-base-w-48-mujin-mudeung",14],["gen-base-g-26-gampyeong-gaetbeol",8],["gen-base-g-60-eupcha-hangyeol",93],["gen-base-g-15-shaman-man",35],["gen-base-g-85-wander-ure",38],["gen-base-g-43-hwanna-amnok",15],["gen-base-g-50-bullae-gwaha",81],["gen-base-g-55-saro-bakdal",15],["gen-base-g-56-haseulla-gwahama",6],["gen-base-w-06-buyeo-huntress",14],["gen-base-w-22-dongye-tiger-huntress",14],["gen-base-w-25-bihwa-priestess",35],["gen-base-w-24-apdok-queen",12],["gen-base-w-61-iseo-sinae",15],["gen-base-w-26-iseo-tomboy-general",47],["gen-base-g-59-yangmaek-maekson",94],["gen-aw1-haebi",46],["gen-aw1-soseono",95],["gen-aw1-gamsil",12],["gen-aw1-mir",53],["gen-aw1-dangung",6],["gen-aw1-ara",46],["gen-aw1-jumong",96],["gen-aw1-onjo",97],["gen-aw1-base-w-83-gyeonji-beodeul",17],["gen-aw1-heo",47],["gen-aw1-base-g-38-chopal-palmae",6],["gen-aw1-base-w-25-bihwa-priestess",79],["gen-aw1-sori",16],["gen-aw1-gomok",6],["gen-aw1-irang",17],["gen-aw1-budeul",16],["gen-aw1-gom",14],["gen-aw1-sdallae",6],["gen-aw1-base-w-13-young-archer",6],["gen-aw1-base-w-36-baekje-maena",98],["gen-aw1-base-g-09-farmer-conscript",47],["gen-aw1-base-w-02-goguryeo-lady",99],["gen-aw1-haedal",12],["gen-aw1-hogong",6],["gen-aw1-maehwa",53],["gen-aw1-base-w-06-buyeo-huntress",8],["gen-aw1-base-w-08-mahan-warrior",46],["gen-aw1-base-w-29-golpo-janmul",46],["gen-aw1-base-w-31-dabeol-dalbit",17],["gen-aw1-base-w-38-sangdang-bulmae",16],["gen-aw1-bira",35],["gen-aw1-base-w-53-hwanna-gabi",16],["gen-aw1-base-w-56-dongokjeo-sogeum",53],["gen-aw1-base-w-72-eumjeup-beol",17],["gen-aw1-bdanbi",16],["gen-aw1-beom",12],["gen-aw1-beombal",12],["gen-aw1-byeol",17],["gen-aw1-dalli",53],["gen-aw1-malgalgi",38],["gen-aw1-sincheongan",35]])

diff --git a/src/raid/hero-hd.ts b/src/raid/hero-hd.ts
@@ -1,6 +1,6 @@
 /** Native master rebake only. Missing entries deliberately retain their approved base assets. */
 export const HERO_HD: Readonly<Record<string, string>> = {
-  // 새 길로 다시 그린 본 띠(범 · 매화 · 달빛 base-w-31-dabeol-dalbit · 11-23)는 옛 2배 띠를 잇지 않는다 — 다시 구울 때까지 본 띠로 그린다 (옛 _hd 그림은 그대로 둔다)
+  // 새 길로 다시 그린 본 띠(범 · 매화 · 달빛 base-w-31-dabeol-dalbit · 11-23 · 해비 · 아룸 11-24)는 옛 2배 띠를 잇지 않는다 — 다시 구울 때까지 본 띠로 그린다 (옛 _hd 그림은 그대로 둔다)
   'anim-px/gen-base-w-39-gosaburi-galmae.png': 'anim-px/gen-base-w-39-gosaburi-galmae_hd.png',
   'anim-px/gen-dalbit.png': 'anim-px/gen-dalbit_hd.png',
   'anim-px/gen-base-g-59-yangmaek-maekson.png': 'anim-px/gen-base-g-59-yangmaek-maekson_hd.png',
@@ -32,7 +32,6 @@ export const HERO_HD: Readonly<Record<string, string>> = {
   'anim-px/gen-aw1-base-w-53-hwanna-gabi.png': 'anim-px/gen-aw1-base-w-53-hwanna-gabi_hd.png',
   'anim-px/gen-aw1-base-w-38-sangdang-bulmae.png': 'anim-px/gen-aw1-base-w-38-sangdang-bulmae_hd.png',
   'anim-px/gen-aryeong.png': 'anim-px/gen-aryeong_hd.png',
-  'anim-px/gen-areum.png': 'anim-px/gen-areum_hd.png',
   'anim-px/gen-base-w-38-sangdang-bulmae.png': 'anim-px/gen-base-w-38-sangdang-bulmae_hd.png',
   'anim-px/gen-base-w-36-baekje-maena.png': 'anim-px/gen-base-w-36-baekje-maena_hd.png',
   'anim-px/gen-base-w-34-chopal-deulme.png': 'anim-px/gen-base-w-34-chopal-deulme_hd.png',
@@ -94,7 +93,6 @@ export const HERO_HD: Readonly<Record<string, string>> = {
   'anim-px/gen-aw1-soseono.png': 'anim-px/gen-aw1-soseono_hd.png',
   'anim-px/gen-aw1-gamsil.png': 'anim-px/gen-aw1-gamsil_hd.png',
   'anim-px/gen-aw1-haebi.png': 'anim-px/gen-aw1-haebi_hd.png',
-  'anim-px/gen-haebi.png': 'anim-px/gen-haebi_hd.png',
 }
 
 /** NativeHD atlas stays within4096 before upload: frame order is row-major,20 frames. */
@@ -131,6 +129,7 @@ export const HERO_HD_SHEETS: Readonly<Record<string, { cell: readonly [number, n
   'anim-px/gen-aw1-base-w-38-sangdang-bulmae_hd.png': { cell: [336, 320], cols: 12 },
   'anim-px/gen-aryeong_hd.png': { cell: [608, 320], cols: 6 },
   'anim-px/gen-areum_hd.png': { cell: [464, 320], cols: 8 },
+  'anim-px/gen-haebi_hd.png': { cell: [400, 320], cols: 10 },
   'anim-px/gen-base-w-38-sangdang-bulmae_hd.png': { cell: [400, 320], cols: 10 },
   'anim-px/gen-base-w-36-baekje-maena_hd.png': { cell: [384, 320], cols: 10 },
   'anim-px/gen-base-w-34-chopal-deulme_hd.png': { cell: [528, 320], cols: 7 },
@@ -193,5 +192,4 @@ export const HERO_HD_SHEETS: Readonly<Record<string, { cell: readonly [number, n
   'anim-px/gen-aw1-soseono_hd.png': { cell: [544, 320], cols: 7 },
   'anim-px/gen-aw1-gamsil_hd.png': { cell: [368, 320], cols: 11 },
   'anim-px/gen-aw1-haebi_hd.png': { cell: [448, 320], cols: 9 },
-  'anim-px/gen-haebi_hd.png': { cell: [400, 320], cols: 10 },
 }

diff --git a/src/duel/view.ts b/src/duel/view.ts
@@ -99,8 +99,8 @@ const crowdBack = [1, 2, 3, 4, 5, 6].map((i) => img(`realm/duel/crowd/f${i}.png`
 const crowdFront = [1, 2, 3, 4, 5, 6].map((i) => img(`realm/duel/crowd/b${i}.png`)) // 등을 보이는 군사 낱장
 const crowdReady = (set: HTMLImageElement[]): boolean => set.every((im) => im.complete && im.naturalWidth > 0)
 const pxMode = cfg.px !== false && params.get('px') !== '0'
-/** 겨루기 전용 옛 띠(duel/sprites) 대신 열전과 같은 도트 띠(anim-px)를 쓰는 장수 — 두 판에서 같은 모습 · 서기 계획·쓰러지는 칸도 같다 (11-23 범 · 매화 · 달빛) */
-const PX_DUEL: ReadonlySet<string> = new Set(['beom', 'maehwa', 'base-w-31-dabeol-dalbit'])
+/** 겨루기 전용 옛 띠(duel/sprites) 대신 열전과 같은 도트 띠(anim-px)를 쓰는 장수 — 두 판에서 같은 모습 · 서기 계획·쓰러지는 칸도 같다 (11-23 범 · 매화 · 달빛 · 11-24 해비 · 아룸) */
+const PX_DUEL: ReadonlySet<string> = new Set(['beom', 'maehwa', 'base-w-31-dabeol-dalbit', 'haebi', 'areum'])
 /** 띠 그림 — 기본은 anim-px(도트 규격) 먼저, 없으면 옛 띠로 (img 의 onerror 가 갈아 끼운다) */
 const strip = (s: string): HTMLImageElement => pxMode
   ? DUEL_ATLASES[s] !== undefined && !PX_DUEL.has(s) ? img(`realm/duel/sprites/gen-${s}.png`, `realm/anim-px/gen-${s}.png`)

diff --git a/src/tune/params.ts b/src/tune/params.ts
@@ -1397,6 +1397,10 @@ export const HAEBI_IDLE = {
   plans: {
     beom: { cells: 34, base: [0, 1], hold: 2.4, blink: 2, breath: [3], fall: [18, 20, 21, 19], quirk: [22, 23, 24, 25], quirkTimes: [.3, .3, .38, .25],
       attack: { cells: [26, 27, 28, 29, 30, 31, 32, 33], times: [.08, .07, .05, .07, .06, .07, .08, .12], hit: 3 } },
+    haebi: { cells: 34, base: [0, 1], hold: 2.4, fall: [18, 20, 21, 19], quirk: [22, 23, 24, 25], quirkTimes: [.3, .32, .4, .28],
+      attack: { cells: [26, 27, 28, 29, 30, 31, 32, 33], times: [.09, .08, .11, .05, .15, .07, .08, .12], hit: 4 }, xGeom: { h: 224, root: 92, foot: 216 } },
+    areum: { cells: 34, base: [0, 1], hold: 2.4, fall: [18, 20, 21, 19], quirk: [22, 23, 24, 25], quirkTimes: [.3, .32, .4, .28],
+      attack: { cells: [26, 27, 28, 29, 30, 31, 32, 33], times: [.09, .08, .11, .05, .15, .07, .08, .12], hit: 4 }, xGeom: { h: 224, root: 92, foot: 216 } },
     maehwa: { cells: 26, base: [0, 1], hold: 2.4, fall: [18, 20, 21, 19], quirk: [22, 23, 24, 25], quirkTimes: [.28, .3, .42, .25] },
     'base-w-31-dabeol-dalbit': { cells: 26, base: [0, 1], hold: 2.4, fall: [18, 20, 21, 19], quirk: [22, 23, 24, 25], quirkTimes: [.28, .42, .3, .25] },
   },

diff --git a/tests/raid-idle.test.ts b/tests/raid-idle.test.ts
@@ -16,11 +16,11 @@ const evenQuirk: IdlePlan = { cells: 26, base: [0, 1], hold: 2.4, quirk: [22, 23
 test('계획이 없는 띠는 예전 서기 그대로 (칸마다)', () => {
   for (let i = 0; i <= 3000; i++) {
     const t = i * .01, old = A.idle[Math.floor(t / A.idleTime) % A.idle.length]
-    assert.equal(planFrame(DEFAULT_IDLE, idleSeed('haebi'), t), old, `${t}`)
+    assert.equal(planFrame(DEFAULT_IDLE, idleSeed('gamsil'), t), old, `${t}`)
     assert.equal(idleFrame(t), old)
   }
-  assert.equal(idlePlan('anim-px/gen-haebi.png'), null)
-  assert.equal(stripCells('anim-px/gen-haebi.png'), 20); assert.equal(stripCells('anim-px/gen-dalbit_hd.png'), 20)
+  assert.equal(idlePlan('anim-px/gen-gamsil.png'), null)
+  assert.equal(stripCells('anim-px/gen-gamsil.png'), 20); assert.equal(stripCells('anim-px/gen-dalbit_hd.png'), 20)
   assert.equal(spriteName('anim-px/gen-base-g-62-beonye-hanul_hd.png'), 'base-g-62-beonye-hanul')
   assert.equal(stripCells('anim-px/gen-beom.png'), STRIP_CELLS, '본 띠는 늘 20칸')
 })

diff --git a/tests/raid-ko.test.ts b/tests/raid-ko.test.ts
@@ -44,7 +44,7 @@ test('겨루기: 쓰러짐은 끝난 뒤 시계로 칸을 넘기고 · 시계가
   assert.equal(fighterMotion(atlas, { kind: 'idle', t0: 0 }, 0, false, 'dead', (E.defeat.freeze + fallTime([atlas.hit, atlas.dead])) * 1000).frame, atlas.dead)
   const beom = pxAtlas('beom')
   assert.equal(beom.hit, LEGACY_ATLAS.hit); assert.equal(beom.dead, LEGACY_ATLAS.dead); assert.ok(beom.plan)
-  assert.equal(pxAtlas('haebi'), LEGACY_ATLAS, '계획 없는 띠는 정규 칸 표 그대로')
+  assert.equal(pxAtlas('gamsil'), LEGACY_ATLAS, '계획 없는 띠는 정규 칸 표 그대로')
   assert.equal(beom.cells, 20, '본 띠는 20칸'); assert.deepEqual(beom.fall, [18, 20, 21, 19])
   assert.equal(pxAtlas('beom', false).fall, undefined, '덧 띠가 아직이면 18 → 19')
   const seq = new Set<number>(); for (let t = 0; t < 4000; t += 20) seq.add(fighterMotion(beom, { kind: 'idle', t0: 0 }, 0, false, 'dead', t).frame)
